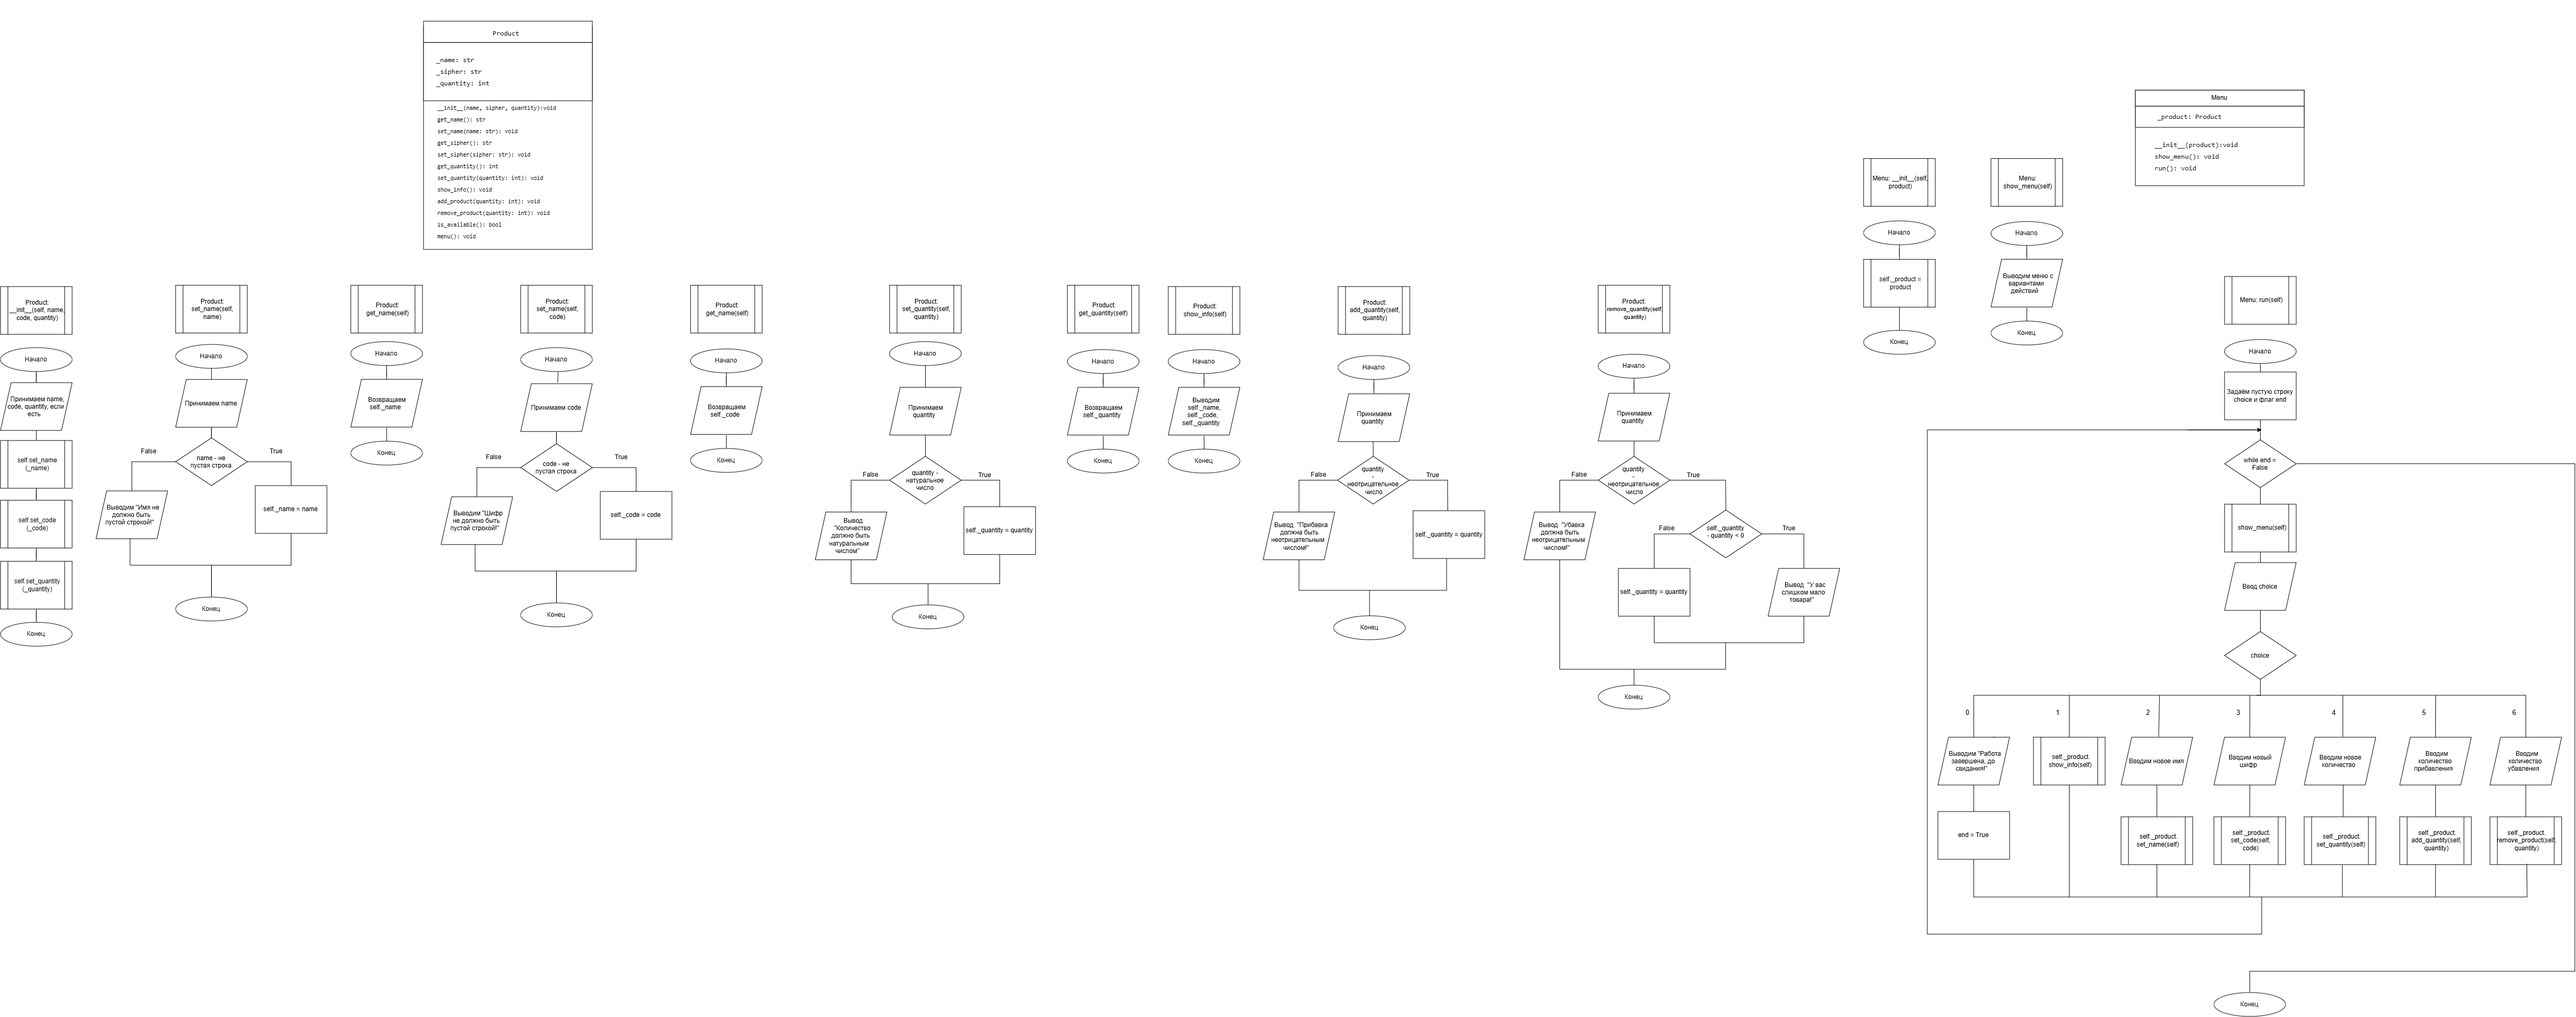
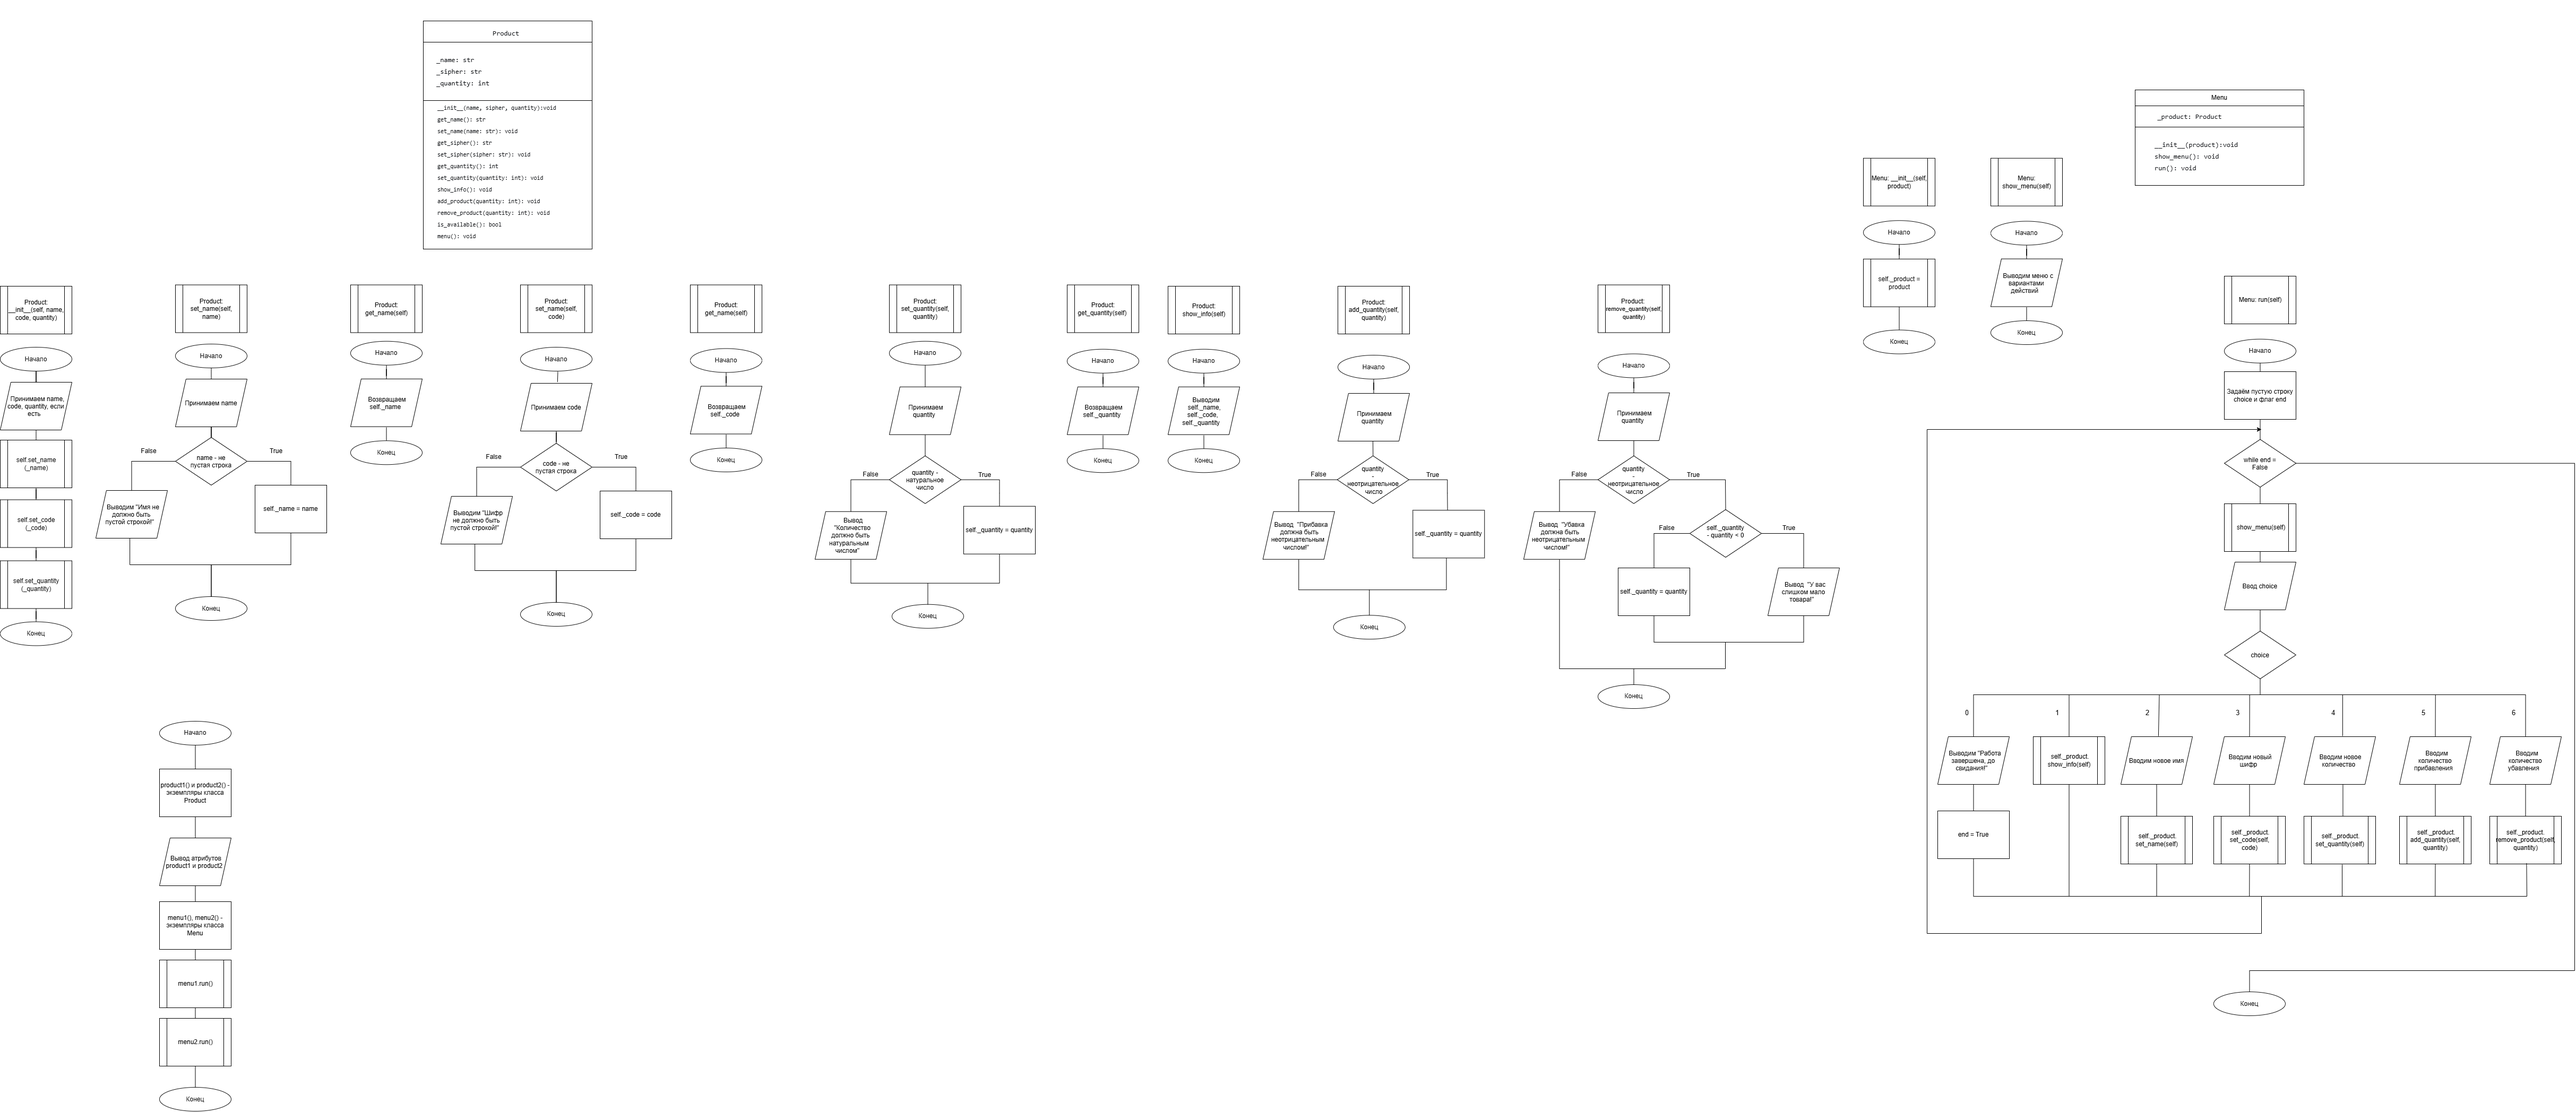
.

diff --git a/task1.py b/task1.py
@@ -210,15 +210,10 @@ class Menu:
 
 
 product1 = Product()
-product1.set_name('Плюшевый кот')
-product1.set_code('R2-D2')
-product1.set_quantity(999)
+product2 = Product("Ноутбук", "R2-D2", 3)
 product1.show_info()
-product1.remove_product(1000)
-product1.remove_product(67)
-product1.show_info()
-
-my_product = Product("Ноутбук", "NB-001", 3)
-my_menu = Menu(my_product)
-my_menu.run()
-
+product2.show_info()
+menu1 = Menu(product1)
+menu2 = Menu(product2)
+menu1.run()
+menu2.run()
